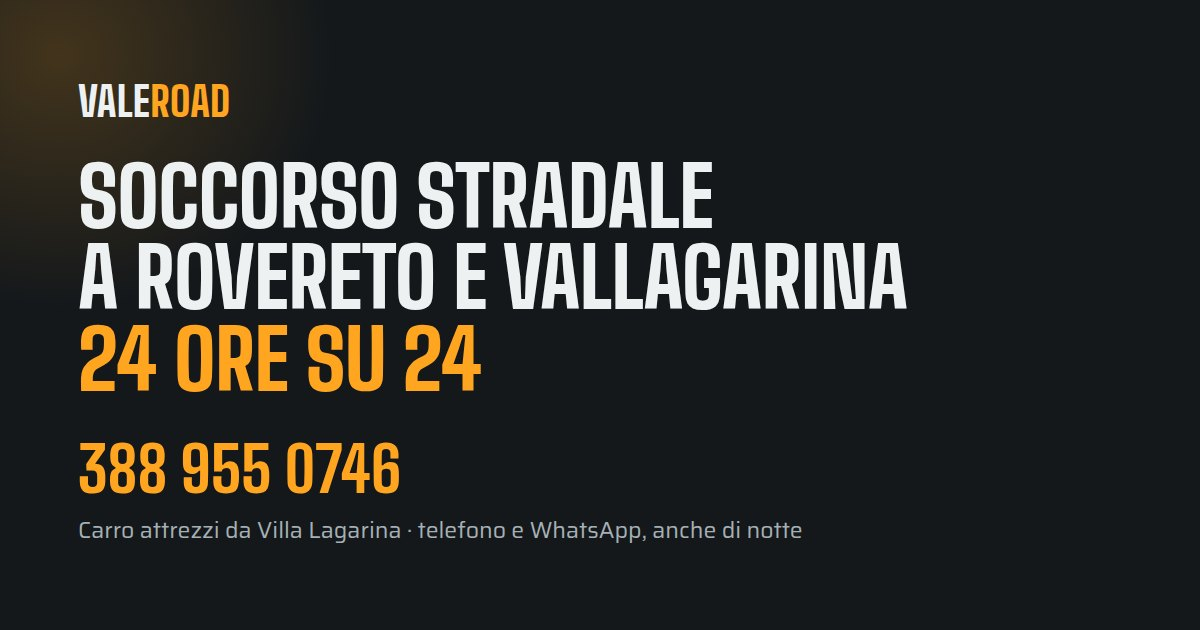
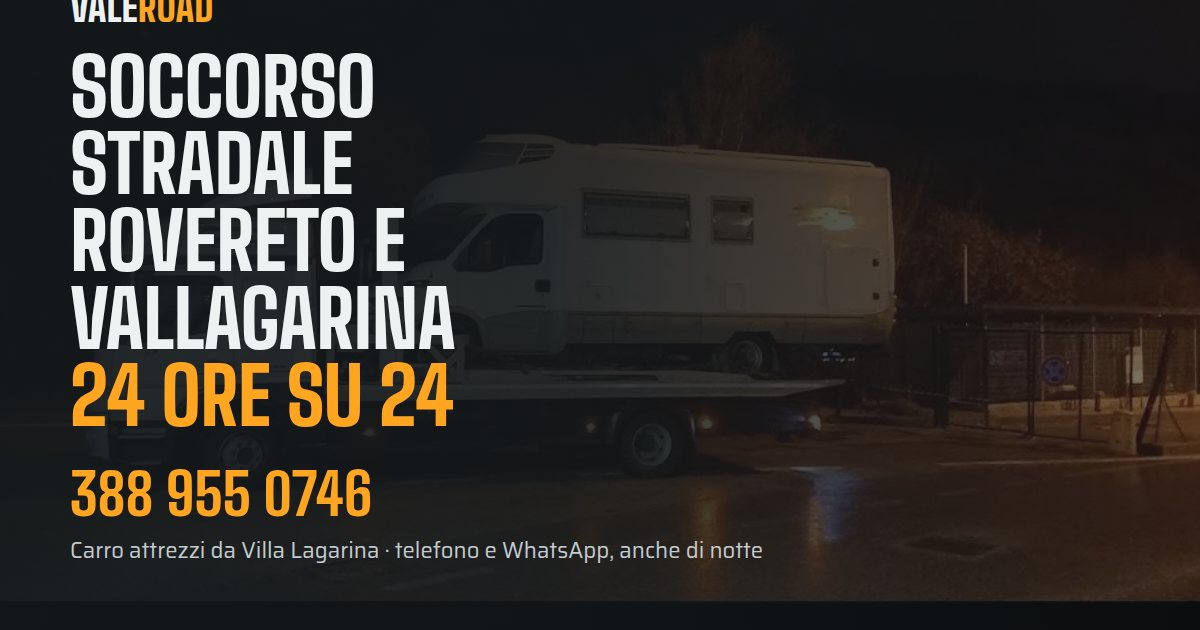
Le foto vere del mezzo di Marcello
Il camper caricato di notte sotto la pioggia apre la pagina: e' la scena su cui
e' costruito tutto il sito. Sezione nuova "Il mezzo" con le altre quattro, che
mostrano quello che un elenco non riesce a dire — pianale a doppio piano,
rimorchio, due mezzi in un viaggio, moto e auto di valore.

Peso: le foto arrivavano gia' compresse da WhatsApp, quindi ricomprimerle rendeva
poco o peggiorava (-27% su una). Il guadagno vero era ridimensionarle alla misura
in cui si vedono davvero: 810 -> 711 KB. Prima schermata 157 KB, il resto in
caricamento pigro.

Claude-Session: https://claude.ai/code/session_01LUWaN6Tp4dRYEWRiFiUHHQ

diff --git a/index.html b/index.html
@@ -139,6 +139,29 @@ section[id]{scroll-margin-top:76px}
 .titolo{font-size:clamp(1.95rem,4.6vw,3.1rem);margin-bottom:18px}
 .introduzione{color:var(--ink-soft);font-size:1.06rem;max-width:62ch;margin-bottom:clamp(34px,4vw,54px)}
 
+/* foto */
+.fascia-foto{margin:0;padding:0}
+.fascia-foto img{display:block;width:100%;max-width:1600px;margin-inline:auto;
+  height:clamp(220px,32vw,400px);object-fit:cover;object-position:center 58%}
+.fascia-foto figcaption{max-width:1120px;margin:14px auto 0;padding:0 20px;
+  font-size:14px;color:var(--ink-soft)}
+.galleria{display:grid;grid-template-columns:repeat(12,1fr);gap:clamp(16px,2.4vw,28px);
+  align-items:start}
+.galleria figure{margin:0}
+.galleria img{display:block;width:100%;height:auto;object-fit:cover;border-radius:3px;
+  aspect-ratio:16/9;background:var(--asfalto-2)}
+.galleria figcaption{margin-top:11px;font-size:14px;color:var(--ink-soft);line-height:1.5}
+.g-larga{grid-column:span 8}
+.g-alta{grid-column:span 4}
+.g-alta img{aspect-ratio:3/2}
+.g-media{grid-column:span 5}
+.g-resto{grid-column:span 7}
+@media(max-width:820px){
+  .galleria{grid-template-columns:1fr;gap:26px}
+  .galleria figure{grid-column:auto!important}
+  .galleria img{aspect-ratio:16/10}
+}
+
 /* interventi: lista, non griglia di card */
 .interventi{list-style:none;margin:0;padding:0;border-top:1px solid var(--asfalto-3)}
 .interventi li{border-bottom:1px solid var(--asfalto-3);padding:26px 0;
@@ -317,6 +340,12 @@ footer a:hover{color:var(--ambra)}
     </div>
   </section>
 
+  <figure class="fascia-foto">
+    <img src="assets/foto/camper-notte.webp" width="1066" height="501" loading="lazy" decoding="async"
+         alt="Il carro attrezzi di Valeroad carica un camper di notte, sull'asfalto bagnato di una statale della Vallagarina">
+    <figcaption>Un camper caricato di notte, sotto la pioggia. È il lavoro vero, non una foto in posa.</figcaption>
+  </figure>
+
   <section class="scura bordata" id="interventi">
     <div class="wrap">
       <h2 class="titolo">Cosa facciamo</h2>
@@ -353,6 +382,11 @@ footer a:hover{color:var(--ambra)}
              rimette in carreggiata.</p>
         </li>
         <li>
+          <h3>Camper e mezzi grandi</h3>
+          <p>Il pianale regge anche un camper o un furgone lungo. Dicci l'ingombro quando
+             chiami, così arriviamo con l'attrezzatura giusta al primo giro.</p>
+        </li>
+        <li>
           <h3>Moto e furgoni</h3>
           <p>Trasporto di moto, scooter e veicoli commerciali leggeri. Quando chiami dicci
              il modello: serve a sapere quale attrezzatura caricare.</p>
@@ -363,6 +397,37 @@ footer a:hover{color:var(--ambra)}
              arriviamo già attrezzati.</p>
         </li>
       </ul>
+    </div>
+  </section>
+
+  <section class="bordata" id="mezzo">
+    <div class="wrap">
+      <h2 class="titolo">Il mezzo</h2>
+      <p class="introduzione">Un pianale scorrevole a doppio piano, con rimorchio. In pratica:
+        quasi tutto quello che sta su quattro ruote, e spesso due cose in un viaggio solo.</p>
+      <div class="galleria">
+        <figure class="g-larga">
+          <img src="assets/foto/porsche-moto.jpg" width="1200" height="540" loading="lazy" decoding="async"
+               alt="Una Porsche 911 cabrio e una moto caricate insieme sul pianale del carro attrezzi">
+          <figcaption>Un'auto di valore e una moto sullo stesso pianale. Le moto si legano a
+            parte, non si trainano.</figcaption>
+        </figure>
+        <figure class="g-alta">
+          <img src="assets/foto/due-auto.webp" width="1100" height="669" loading="lazy" decoding="async"
+               alt="Due auto caricate una sopra l'altra sul pianale a doppio piano">
+          <figcaption>Due auto, un viaggio. Il piano superiore si alza e si carica sotto.</figcaption>
+        </figure>
+        <figure class="g-media">
+          <img src="assets/foto/due-mezzi.jpg" width="1070" height="456" loading="lazy" decoding="async"
+               alt="Un autocarro sul pianale e un furgone sul rimorchio: due mezzi trasportati insieme">
+          <figcaption>Con il rimorchio si arriva a due mezzi pesanti insieme.</figcaption>
+        </figure>
+        <figure class="g-resto">
+          <img src="assets/foto/concessionario.jpg" width="1080" height="453" loading="lazy" decoding="async"
+               alt="Il carro attrezzi carica due auto su due piani davanti a un concessionario">
+          <figcaption>Anche ritiri e consegne programmate, non solo emergenze.</figcaption>
+        </figure>
+      </div>
     </div>
   </section>
 
@@ -742,7 +807,8 @@ footer a:hover{color:var(--ambra)}
           {"@type":"Offer","itemOffered":{"@type":"Service","name":"Sostituzione ruota per foratura"}},
           {"@type":"Offer","itemOffered":{"@type":"Service","name":"Apertura auto con chiavi chiuse dentro"}},
           {"@type":"Offer","itemOffered":{"@type":"Service","name":"Recupero veicolo fuori strada"}},
-          {"@type":"Offer","itemOffered":{"@type":"Service","name":"Trasporto moto e veicoli commerciali leggeri"}}
+          {"@type":"Offer","itemOffered":{"@type":"Service","name":"Trasporto moto e veicoli commerciali leggeri"}},
+          {"@type":"Offer","itemOffered":{"@type":"Service","name":"Trasporto di camper e mezzi lunghi su pianale"}}
         ]
       }
     },
